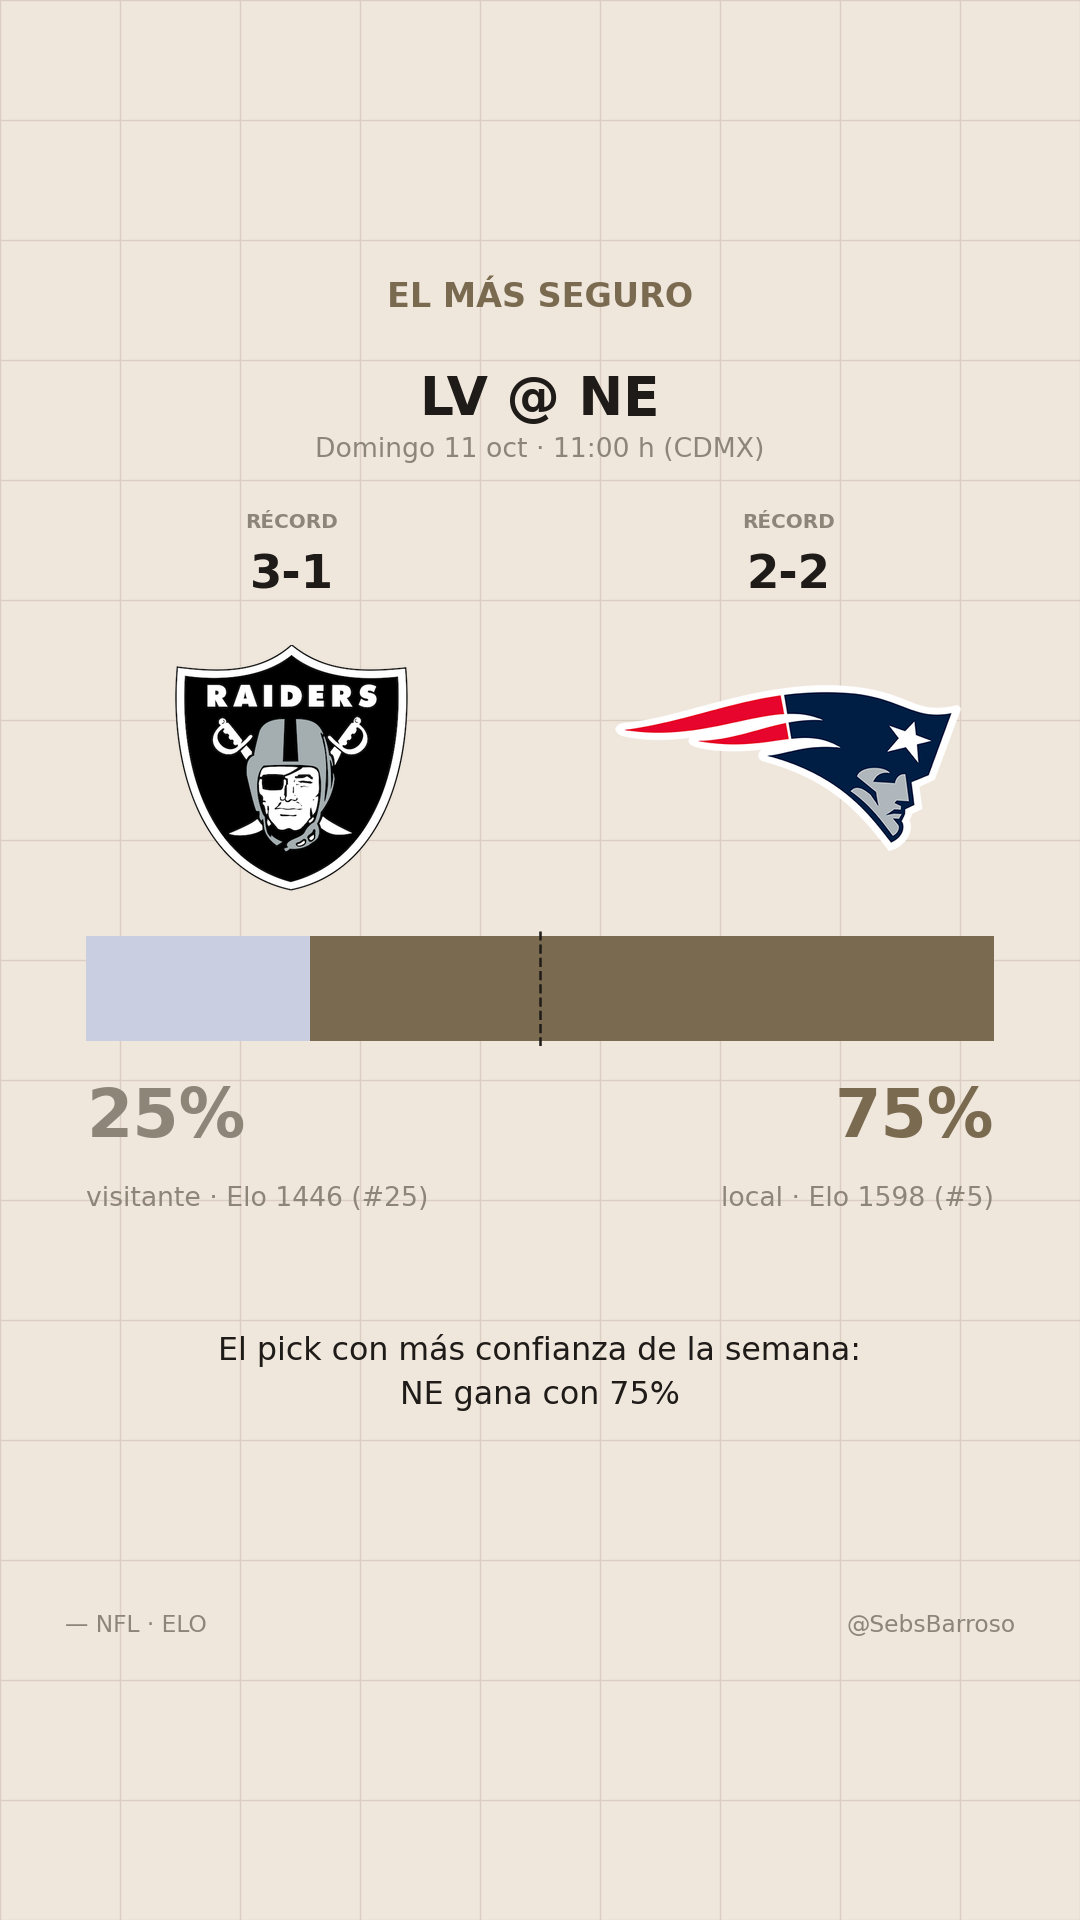
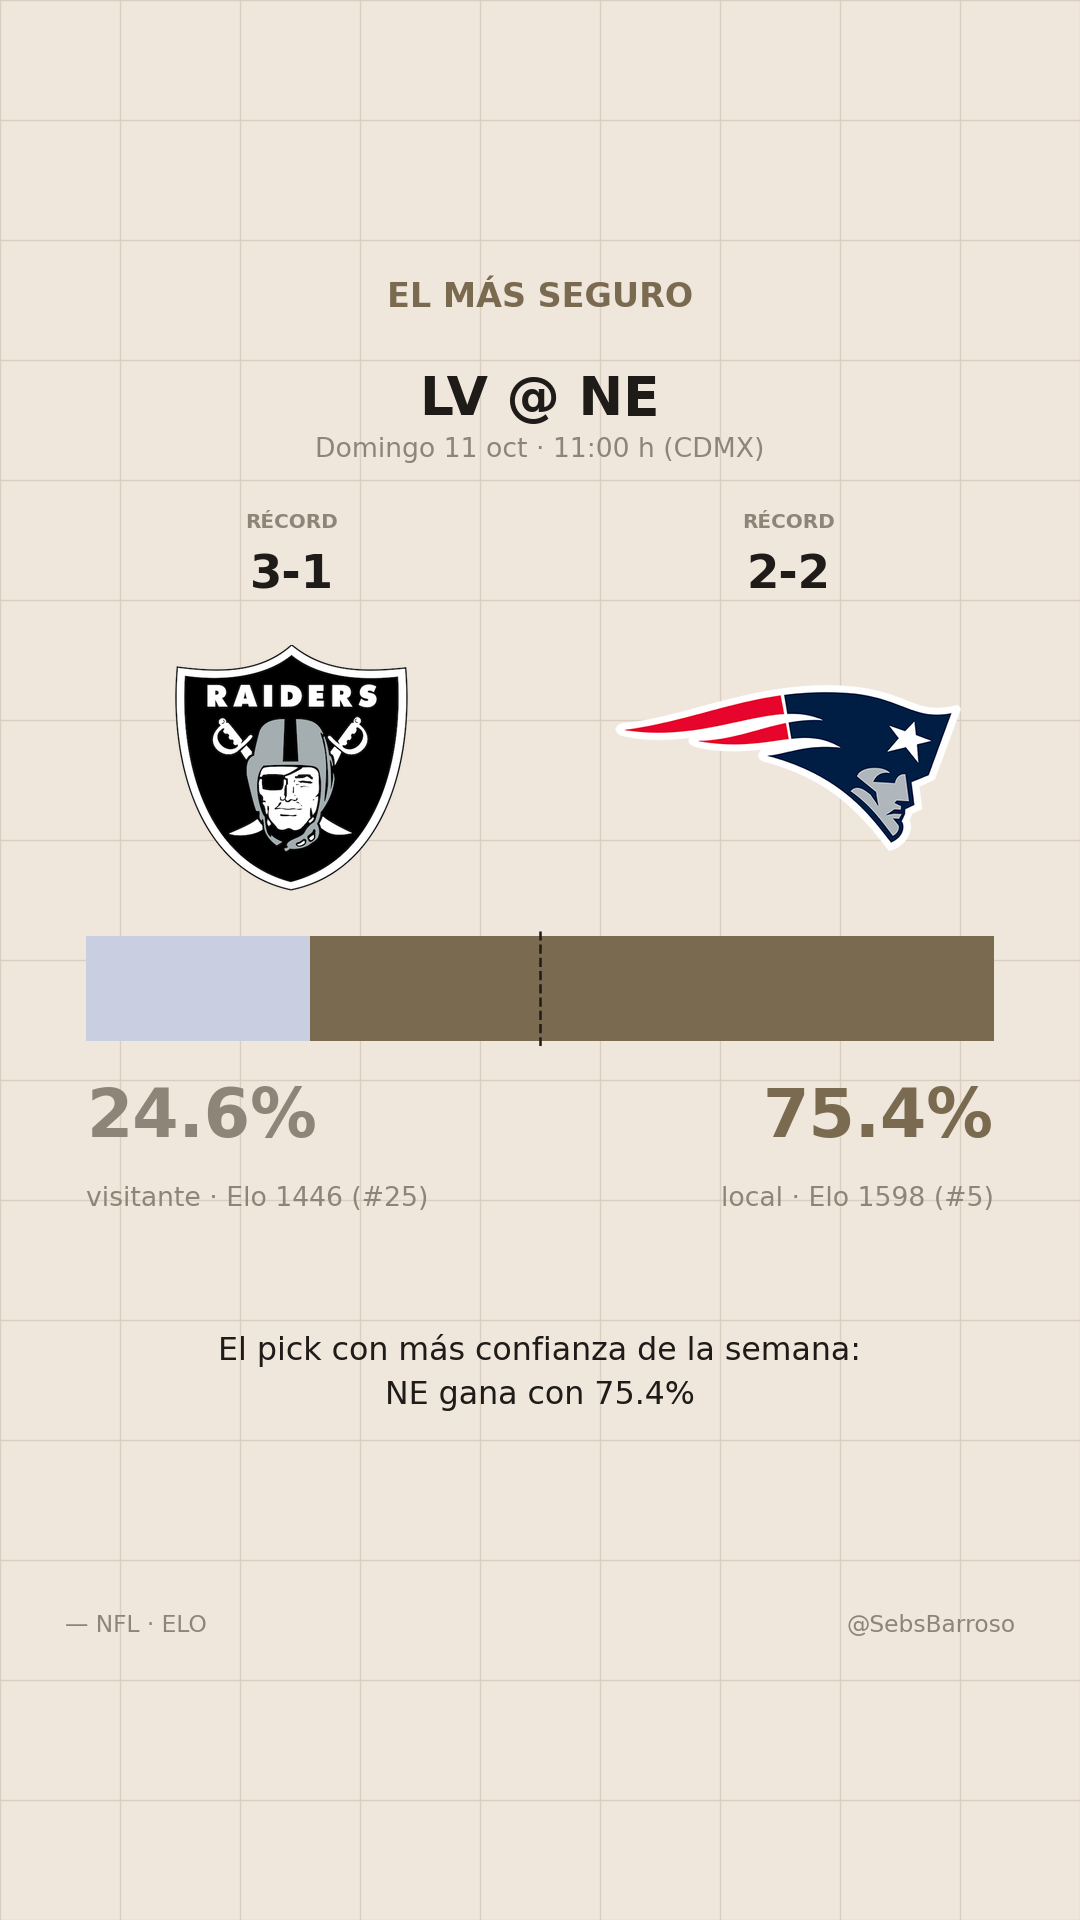
Feat: Add 1 percentage

Changed region(s): [[0.3667, 0.7188, 0.6417, 0.75], [0.1222, 0.5625, 0.3056, 0.5938], [0.7028, 0.5625, 0.8556, 0.5938]]

diff --git a/src/weekly_content.py b/src/weekly_content.py
@@ -119,6 +119,22 @@ ZONAS_CORTAS = {"America/Mexico_City": "CDMX", "America/New_York": "ET",
                 "Europe/Madrid": "Madrid"}
 
 
+DECIMALES = 1   # decimales en las probabilidades que se muestran
+
+
+def fmt_pct(p, d=DECIMALES):
+    """0.5012 -> '50.1%'"""
+    return f"{p:.{d}%}"
+
+
+def fmt_par(p_a, p_b, d=DECIMALES):
+    """
+    Formatea dos probabilidades complementarias para que siempre sumen 100.
+    Redondea la primera y la segunda es 100 menos la primera, para evitar
+    casos como 50.1% vs 50.0%.
+    """
+    a = round(p_a * 100, d)
+    return f"{a:.{d}f}%", f"{100 - a:.{d}f}%"
 # ══════════════════════════════════════════════════════════════════════════════
 # 1 · Datos — lo mismo que hace el Notebook 05
 # ══════════════════════════════════════════════════════════════════════════════
@@ -399,18 +415,19 @@ def comentario_partido(r, rec, rank):
     elo_r = float(r.elo_away_pre if r.fav_local else r.elo_home_pre)
     rk_f, rk_r = rank.get(fav, "–"), rank.get(riv, "–")
 
-    # 1 · Probabilidad (con el mismo % redondeado que se ve en la imagen)
-    pct = int(f"{p:.0%}"[:-1])
-    if pct >= 75:
-        f1 = f"{fav}, favorito claro: gana {pct}% de las veces."
-    elif pct >= 65:
-        f1 = f"{fav} llega como favorito sólido ({pct}%)."
-    elif pct >= 57:
-        f1 = f"Ligera ventaja para {fav} ({pct}%), pero hay partido."
-    elif pct >= 53:
-        f1 = f"Muy parejo: {fav} apenas por delante ({pct}%)."
+    # 1 · Probabilidad (mismo valor redondeado que se ve en la imagen)
+    pct_num = round(p * 100, DECIMALES)   # 57.3 → para comparar contra los cortes
+    pct = fmt_pct(p)                      # '57.3%' → para el texto
+    if pct_num >= 75:
+        f1 = f"{fav}, favorito claro: gana {pct} de las veces."
+    elif pct_num >= 65:
+        f1 = f"{fav} llega como favorito sólido ({pct})."
+    elif pct_num >= 57:
+        f1 = f"Ligera ventaja para {fav} ({pct}), pero hay partido."
+    elif pct_num >= 53:
+        f1 = f"Muy parejo: {fav} apenas por delante ({pct})."
     else:
-        f1 = f"Moneda al aire: {fav} apenas {pct}%."
+        f1 = f"Moneda al aire: {fav} apenas {pct}."
 
     # 2 · Elo y localía
     dif = elo_f - elo_r
@@ -465,13 +482,15 @@ def elegir_destacados(week_games):
 
     r = g.loc[seguro]
     out = [("El más seguro", r,
-            f"El pick con más confianza de la semana:\n{r.favorito} gana con {r.p_fav:.0%}")]
+            f"El pick con más confianza de la semana:\n{r.favorito} gana con {fmt_pct(r.p_fav)}")]
 
     r = g.loc[moneda]
     # diferencia con los mismos % redondeados que se ven en la gráfica
-    dif = abs(int(f"{r.p_home_pre:.0%}"[:-1]) - int(f"{r.p_away_pre:.0%}"[:-1]))
-    arranque = "Prácticamente 50-50" if dif == 0 else \
-        f"Solo {dif} {'punto' if dif == 1 else 'puntos'} de diferencia"
+    # La moneda al aire: diferencia con los mismos valores que se ven en la imagen
+    a, b = fmt_par(r.p_home_pre, r.p_away_pre)
+    dif = round(abs(float(a[:-1]) - float(b[:-1])), DECIMALES)
+    arranque = ("Prácticamente 50-50" if dif == 0 else
+                f"Solo {dif:.{DECIMALES}f} {'punto' if dif == 1 else 'puntos'} de diferencia")
     out.append(("La moneda al aire", r, f"{arranque}:\nel partido más parejo de la semana"))
 
     if resto.empty:
@@ -487,16 +506,16 @@ def elegir_destacados(week_games):
         r, pv = resto.loc[idx], pv_pick[idx]
         vf = r.favorito if pv > 0.5 else r.rival
         if pv < 0.5:
-            texto = f"Las Vegas va con {vf} ({1 - pv:.0%}).\nEl modelo va con {r.favorito} ({r.p_fav:.0%})."
+            texto = f"Las Vegas va con {vf} ({fmt_pct(1 - pv)}).\nEl modelo va con {r.favorito} ({fmt_pct(r.p_fav)})."
         elif r.p_fav > pv:
-            texto = f"Las Vegas le da a {r.favorito} {pv:.0%}.\nEl modelo le tiene más fe: {r.p_fav:.0%}."
+            texto = f"Las Vegas le da a {r.favorito} {fmt_pct(pv)}.\nEl modelo le tiene más fe: {fmt_pct(r.p_fav)}."
         else:
-            texto = f"Las Vegas ve muy favorito a {r.favorito} ({pv:.0%}).\nEl modelo lo ve más parejo: {r.p_fav:.0%}."
+            texto = f"Las Vegas ve muy favorito a {r.favorito} ({fmt_pct(pv)}).\nEl modelo lo ve más parejo: {fmt_pct(r.p_fav)}."
     else:
         visita = resto[~resto["fav_local"]]
         idx = visita["p_fav"].idxmax() if not visita.empty else resto["p_away_pre"].idxmax()
         r = resto.loc[idx]
-        texto = f"El modelo ve ganar al visitante:\n{r.away_team} con {r.p_away_pre:.0%}"
+        texto = f"El modelo ve ganar al visitante:\n{r.away_team} con {fmt_pct(r.p_away_pre)}"
     out.append(("La sorpresa", r, texto))
     return out
 
@@ -859,7 +878,7 @@ def graf_picks(week_games, semana, threshold, ruta, zona=ZONA_HORARIA):
         bar.set_xlim(0, 1)
         bar.set_ylim(-0.5, 0.5)
         bar.axis("off")
-        fig.text(0.83, yc, f"{r.p_fav:.0%}", fontsize=18, fontweight="bold", va="center",
+        fig.text(0.83, yc, fmt_pct(r.p_fav), fontsize=17, fontweight="bold", va="center",
                  color=TINTA if es_pick else GRIS)
         y -= u
 
@@ -901,10 +920,13 @@ def graf_duelo(r, etiqueta, explicacion, ruta, zona=ZONA_HORARIA, rec=None, rank
     ax.set_ylim(-0.55, 0.55)
     ax.axis("off")
 
-    fig.text(0.08, 0.435, f"{p_vis:.0%}", fontsize=40, fontweight="bold", va="top",
-             color=ACENTO if fav_vis else GRIS)
-    fig.text(0.92, 0.435, f"{p_loc:.0%}", fontsize=40, fontweight="bold", va="top",
-             ha="right", color=GRIS if fav_vis else ACENTO)
+    txt_vis, txt_loc = fmt_par(p_vis, p_loc)
+
+    fig.text(0.08, 0.435, txt_vis, fontsize=40, fontweight="bold", va="top",
+         color=ACENTO if fav_vis else GRIS)
+    fig.text(0.92, 0.435, txt_loc, fontsize=40, fontweight="bold", va="top",
+            ha="right", color=GRIS if fav_vis else ACENTO)
+    
     def _rk(team):
         return f" (#{rank[team]})" if team in rank else ""
 

diff --git a/reels/semana_05/partidos/comentarios.md b/reels/semana_05/partidos/comentarios.md
@@ -4,88 +4,88 @@
 
 Pick: **DAL 66%** · Elo 1402 (#29) vs 1477 (#20) · Récord TB 0-4, DAL 2-2
 
-DAL llega como favorito sólido (66%). Elo #20 contra #29, y juega en casa. Además, DAL tiene mejor récord (2-2 contra 0-4).
+DAL llega como favorito sólido (66.2%). Elo #20 contra #29, y juega en casa. Además, DAL tiene mejor récord (2-2 contra 0-4).
 
 ## 02 · PHI @ JAX — Domingo 11 oct · 07:30 h (CDMX)
 
 Pick: **JAX 62%** · Elo 1537 (#12) vs 1580 (#7) · Récord PHI 2-2, JAX 3-1
 
-Ligera ventaja para JAX (62%), pero hay partido. Elo #7 contra #12, y juega en casa. Además, JAX tiene mejor récord (3-1 contra 2-2).
+Ligera ventaja para JAX (62.0%), pero hay partido. Elo #7 contra #12, y juega en casa. Además, JAX tiene mejor récord (3-1 contra 2-2).
 
 ## 03 · CHI @ GB — Domingo 11 oct · 11:00 h (CDMX)
 
 Pick: **CHI 50%** · Elo 1558 (#9) vs 1513 (#15) · Récord CHI 3-1, GB 2-2
 
-Moneda al aire: CHI apenas 50%. Aun de visita, su Elo (#9) pesa más que la localía de GB (#15). Además, CHI tiene mejor récord (3-1 contra 2-2).
+Moneda al aire: CHI apenas 50.4%. Aun de visita, su Elo (#9) pesa más que la localía de GB (#15). Además, CHI tiene mejor récord (3-1 contra 2-2).
 
 ## 04 · CIN @ MIA — Domingo 11 oct · 11:00 h (CDMX)
 
 Pick: **CIN 53%** · Elo 1476 (#21) vs 1415 (#28) · Récord CIN 2-2, MIA 0-4
 
-Muy parejo: CIN apenas por delante (53%). Aun de visita, su Elo (#21) pesa más que la localía de MIA (#28). Además, CIN tiene mejor récord (2-2 contra 0-4).
+Moneda al aire: CIN apenas 52.8%. Aun de visita, su Elo (#21) pesa más que la localía de MIA (#28). Además, CIN tiene mejor récord (2-2 contra 0-4).
 
 ## 05 · CLE @ NYJ — Domingo 11 oct · 11:00 h (CDMX)
 
 Pick: **CLE 59%** · Elo 1490 (#17) vs 1386 (#31) · Récord CLE 3-1, NYJ 1-3
 
-Ligera ventaja para CLE (59%), pero hay partido. Aun de visita, su Elo (#17) pesa más que la localía de NYJ (#31). Además, CLE tiene mejor récord (3-1 contra 1-3).
+Ligera ventaja para CLE (58.9%), pero hay partido. Aun de visita, su Elo (#17) pesa más que la localía de NYJ (#31). Además, CLE tiene mejor récord (3-1 contra 1-3).
 
 ## 06 · HOU @ TEN — Domingo 11 oct · 11:00 h (CDMX)
 
 Pick: **HOU 65%** · Elo 1484 (#18) vs 1336 (#32) · Récord HOU 0-4, TEN 0-4
 
-HOU llega como favorito sólido (65%). Aun de visita, su Elo (#18) pesa más que la localía de TEN (#32). Ninguno ha ganado todavía (0-4 y 0-4).
+Ligera ventaja para HOU (64.7%), pero hay partido. Aun de visita, su Elo (#18) pesa más que la localía de TEN (#32). Ninguno ha ganado todavía (0-4 y 0-4).
 
 ## 07 · IND @ PIT — Domingo 11 oct · 11:00 h (CDMX)
 
 Pick: **PIT 61%** · Elo 1484 (#19) vs 1518 (#14) · Récord IND 2-2, PIT 2-2
 
-Ligera ventaja para PIT (61%), pero hay partido. Elo #14 contra #19, y juega en casa. Los dos llegan 2-2.
+Ligera ventaja para PIT (60.8%), pero hay partido. Elo #14 contra #19, y juega en casa. Los dos llegan 2-2.
 
 ## 08 · LV @ NE — Domingo 11 oct · 11:00 h (CDMX)
 
 Pick: **NE 75%** · Elo 1446 (#25) vs 1598 (#5) · Récord LV 3-1, NE 2-2
 
-NE, favorito claro: gana 75% de las veces. Brecha de 152 puntos de Elo: #5 contra #25. Ojo: el récord favorece a LV (3-1 contra 2-2).
+NE, favorito claro: gana 75.4% de las veces. Brecha de 152 puntos de Elo: #5 contra #25. Ojo: el récord favorece a LV (3-1 contra 2-2).
 
 ## 09 · MIN @ NO — Domingo 11 oct · 11:00 h (CDMX)
 
 Pick: **MIN 69%** · Elo 1606 (#3) vs 1422 (#27) · Récord MIN 4-0, NO 1-3
 
-MIN llega como favorito sólido (69%). Aun de visita, su Elo (#3) pesa más que la localía de NO (#27). MIN llega invicto (4-0); NO va 1-3.
+MIN llega como favorito sólido (69.3%). Aun de visita, su Elo (#3) pesa más que la localía de NO (#27). MIN llega invicto (4-0); NO va 1-3.
 
 ## 10 · NYG @ WAS — Domingo 11 oct · 11:00 h (CDMX)
 
 Pick: **WAS 54%** · Elo 1458 (#23) vs 1444 (#26) · Récord NYG 3-1, WAS 1-3
 
-Muy parejo: WAS apenas por delante (54%). NYG tiene mejor Elo (1458 vs 1444): la localía decide. Ojo: el récord favorece a NYG (3-1 contra 1-3).
+Muy parejo: WAS apenas por delante (54.0%). NYG tiene mejor Elo (1458 vs 1444): la localía decide. Ojo: el récord favorece a NYG (3-1 contra 1-3).
 
 ## 11 · DEN @ LAC — Domingo 11 oct · 14:05 h (CDMX)
 
 Pick: **DEN 62%** · Elo 1586 (#6) vs 1457 (#24) · Récord DEN 2-2, LAC 0-4
 
-Ligera ventaja para DEN (62%), pero hay partido. Aun de visita, su Elo (#6) pesa más que la localía de LAC (#24). Además, DEN tiene mejor récord (2-2 contra 0-4).
+Ligera ventaja para DEN (62.2%), pero hay partido. Aun de visita, su Elo (#6) pesa más que la localía de LAC (#24). Además, DEN tiene mejor récord (2-2 contra 0-4).
 
 ## 12 · DET @ ARI — Domingo 11 oct · 14:25 h (CDMX)
 
 Pick: **DET 63%** · Elo 1528 (#13) vs 1393 (#30) · Récord DET 2-2, ARI 1-3
 
-Ligera ventaja para DET (63%), pero hay partido. Aun de visita, su Elo (#13) pesa más que la localía de ARI (#30). Además, DET tiene mejor récord (2-2 contra 1-3).
+Ligera ventaja para DET (63.0%), pero hay partido. Aun de visita, su Elo (#13) pesa más que la localía de ARI (#30). Además, DET tiene mejor récord (2-2 contra 1-3).
 
 ## 13 · SF @ SEA — Domingo 11 oct · 14:25 h (CDMX)
 
 Pick: **SEA 60%** · Elo 1620 (#2) vs 1647 (#1) · Récord SF 4-0, SEA 3-1
 
-Ligera ventaja para SEA (60%), pero hay partido. Elo #1 contra #2, y juega en casa. Ojo: el récord favorece a SF (4-0 contra 3-1).
+Ligera ventaja para SEA (59.9%), pero hay partido. Elo #1 contra #2, y juega en casa. Ojo: el récord favorece a SF (4-0 contra 3-1).
 
 ## 14 · BAL @ ATL — Domingo 11 oct · 18:20 h (CDMX)
 
 Pick: **ATL 50%** · Elo 1539 (#11) vs 1500 (#16) · Récord BAL 3-1, ATL 2-2
 
-Moneda al aire: ATL apenas 50%. BAL tiene mejor Elo (1539 vs 1500): la localía decide. Ojo: el récord favorece a BAL (3-1 contra 2-2).
+Moneda al aire: ATL apenas 50.4%. BAL tiene mejor Elo (1539 vs 1500): la localía decide. Ojo: el récord favorece a BAL (3-1 contra 2-2).
 
 ## 15 · BUF @ LA — Lunes 12 oct · 18:15 h (CDMX)
 
 Pick: **LA 52%** · Elo 1602 (#4) vs 1572 (#8) · Récord BUF 3-1, LA 2-2
 
-Moneda al aire: LA apenas 52%. BUF tiene mejor Elo (1602 vs 1572): la localía decide. Ojo: el récord favorece a BUF (3-1 contra 2-2).
+Moneda al aire: LA apenas 51.8%. BUF tiene mejor Elo (1602 vs 1572): la localía decide. Ojo: el récord favorece a BUF (3-1 contra 2-2).

diff --git a/reels/semana_05/resumen.md b/reels/semana_05/resumen.md
@@ -39,6 +39,6 @@
 
 ## Destacados
 
-- **El más seguro** · LV @ NE: El pick con más confianza de la semana: NE gana con 75%
-- **La moneda al aire** · BAL @ ATL: Prácticamente 50-50: el partido más parejo de la semana
-- **La sorpresa** · CLE @ NYJ: Las Vegas va con NYJ (54%). El modelo va con CLE (59%).
+- **El más seguro** · LV @ NE: El pick con más confianza de la semana: NE gana con 75.4%
+- **La moneda al aire** · BAL @ ATL: Solo 0.8 puntos de diferencia: el partido más parejo de la semana
+- **La sorpresa** · CLE @ NYJ: Las Vegas va con NYJ (54.3%). El modelo va con CLE (58.9%).
